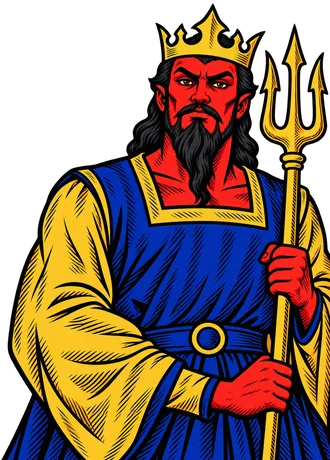
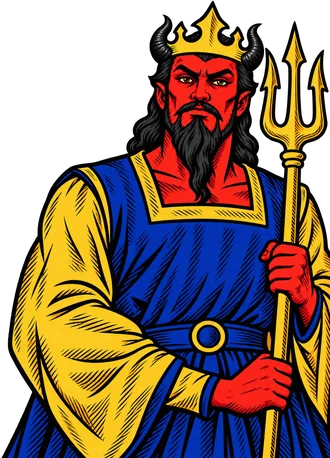
Infernal: updated Trident and Horns courts; Sun, Moon, Dragon and Fool woodcuts for the extended deck

diff --git a/oh-core.js b/oh-core.js
@@ -11,6 +11,10 @@ const SUITS = ["♠", "♥", "♦", "♣"];
 // own suits never change; only how they're shown. The symbols are in index.html's #suit-symbols.
 let INFERNAL = false;
 const INFERNAL_SUITS = { "♥": "flames", "♦": "tridents", "♣": "horns", "♠": "pentagrams" };
+const INFERNAL_SPECIAL = {
+  SUN: { letter: "S", color: "#b5650f" }, MOON: { letter: "M", color: "#1d55a8" },
+  DRAGON: { letter: "D", color: "#a3201e" }, JOKER: { letter: "F", color: "#6b3a8f", name: "The Fool (Joker)" }
+};
 const INFERNAL_ICON = { "♥": "s-flame", "♦": "s-trident", "♣": "s-horns", "♠": "s-pentagram" };
 const INFERNAL_NAME = { hearts: "flames", diamonds: "tridents", clubs: "horns", spades: "pentagrams",
   heart: "flame", diamond: "trident", club: "horn", spade: "pentagram" };
@@ -588,6 +592,31 @@ class CardView {
     const info = SPECIAL_LOOK[card.role];
     div.classList.add("special", "special-" + card.role.toLowerCase());
     div.title = info.name + ": " + info.rule;
+
+    if (INFERNAL) {
+      // Infernal: a woodcut figure in a framed panel, with a letter at top left (the Joker is the Fool)
+      const L = INFERNAL_SPECIAL[card.role];
+      div.classList.add("inf-court-card");
+      if (L.name) div.title = L.name + ": " + info.rule;
+      const corner = document.createElement("div");
+      corner.className = "corner sp-letter";
+      corner.style.color = L.color;
+      corner.innerHTML = `<span class="rank">${L.letter}</span>`;
+      div.appendChild(corner);
+      const jumbo = document.createElement("img");
+      jumbo.className = "jumbo-pip jumbo-icon";
+      jumbo.src = `special/icon-${card.role}.svg`; jumbo.alt = ""; jumbo.draggable = false;
+      div.appendChild(jumbo);
+      const center = document.createElement("div");
+      center.className = "face-icon";
+      center.style.cssText = "position:absolute;top:0;left:0;width:100%;height:100%";
+      const frame = document.createElement("div");
+      frame.className = "inf-court";
+      const img = document.createElement("img");
+      img.src = `img/inf-${card.role}.webp`; img.alt = ""; img.draggable = false;
+      frame.appendChild(img); center.appendChild(frame); div.appendChild(center);
+      return div;
+    }
 
     for (const cls of ["sp-corner", "sp-corner bottom"]) {
       const ic = document.createElement("img");

diff --git a/index.html b/index.html
@@ -16,9 +16,9 @@
   <meta property="og:image" content="share.jpg">
   <meta name="twitter:card" content="summary_large_image">
   <link rel="preload" href="share.jpg" as="image" fetchpriority="low">
-  <link rel="stylesheet" href="./gw.css?v=156">
-  <link rel="stylesheet" href="./oh.css?v=156">
-  <link rel="stylesheet" href="./bv-more.css?v=156">
+  <link rel="stylesheet" href="./gw.css?v=158">
+  <link rel="stylesheet" href="./oh.css?v=158">
+  <link rel="stylesheet" href="./bv-more.css?v=158">
 </head>
 <body>
 <!-- The Infernal suits (Look & feel): drawn with <use href="#s-flame"> etc. -->
@@ -111,7 +111,7 @@
 
 <!-- SPLASH -->
 <div id="splash" role="button" tabindex="0" aria-label="Click to start">
-  <img src="logo-ohhell.webp?v=156" alt="Oh Hell! Extended" class="splash-title">
+  <img src="logo-ohhell.webp?v=158" alt="Oh Hell! Extended" class="splash-title">
   <div class="logo-subtitle splash-subtitle">Oh Hell! with a trick up its sleeve</div>
   <img src="bugvictim.svg" alt="BugVictim" class="splash-logo">
   <div class="splash-credit">© BugVictim 2026</div>
@@ -174,7 +174,7 @@
 
     <div class="start-panel-header">
       <div class="start-header">
-        <img src="logo-ohhell.webp?v=156" alt="Oh Hell! Extended" class="start-title-img">
+        <img src="logo-ohhell.webp?v=158" alt="Oh Hell! Extended" class="start-title-img">
       </div>
 
       <div class="start-logo-row start-credit-line">© BugVictim 2026</div>
@@ -451,12 +451,12 @@
   </div>
 </div>
 
-  <script src="./oh-core.js?v=156"></script>
-  <script src="./oh-tutorial.js?v=156"></script>
-  <script src="./oh-ai.js?v=156"></script>
-  <script src="./bv-more.js?v=156"></script>
-  <script src="./oh-souls.js?v=156"></script>
-  <script src="./oh-app.js?v=156"></script>
+  <script src="./oh-core.js?v=158"></script>
+  <script src="./oh-tutorial.js?v=158"></script>
+  <script src="./oh-ai.js?v=158"></script>
+  <script src="./bv-more.js?v=158"></script>
+  <script src="./oh-souls.js?v=158"></script>
+  <script src="./oh-app.js?v=158"></script>
   <script>
     BVMore.init({ key: "oh-hell-extended", title: "Oh Hell! Extended", others: ["drakeharbour", "german-whist", "artifact"],
       shareText: "Bid your tricks, then win exactly that many. Play Oh Hell! Extended.",

diff --git a/oh.css b/oh.css
@@ -1731,3 +1731,5 @@ body.suits-infernal .card:not(.back) {
 .card.inf-court-card .corner { z-index: 2; text-shadow: 0 0 2px #f1dcae, 0 0 4px #f1dcae, 0 0 6px #f1dcae; }
 .card.inf-court-card .corner.bottom { display: none; }
 body.suits-infernal .card:not(.back) .corner { text-shadow: 0 0 2px #f1dcae, 0 0 4px #f1dcae; }
+/* Infernal specials: one letter at top left, in the court style */
+.card.inf-court-card .corner.sp-letter { display: flex; flex-direction: column; font-family: Georgia, "Times New Roman", serif; font-weight: 700; }
